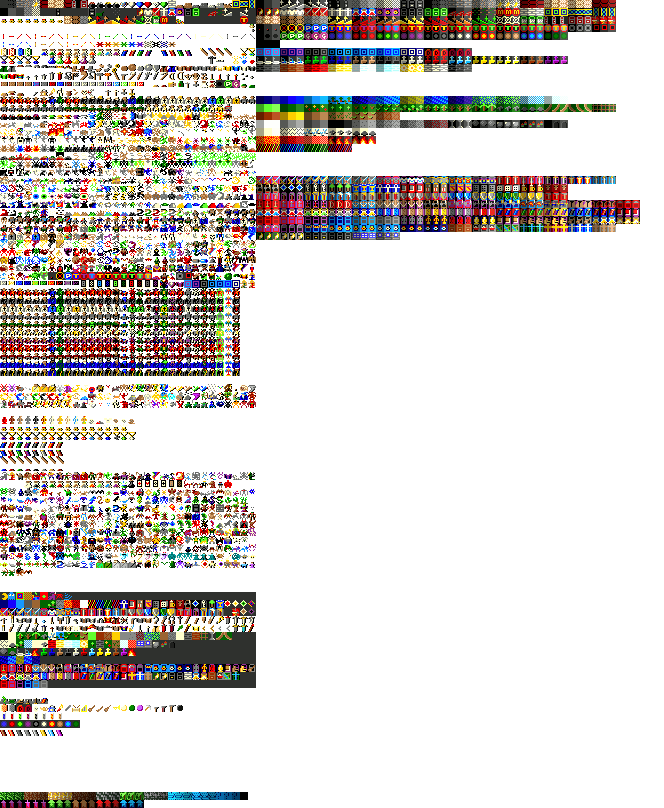
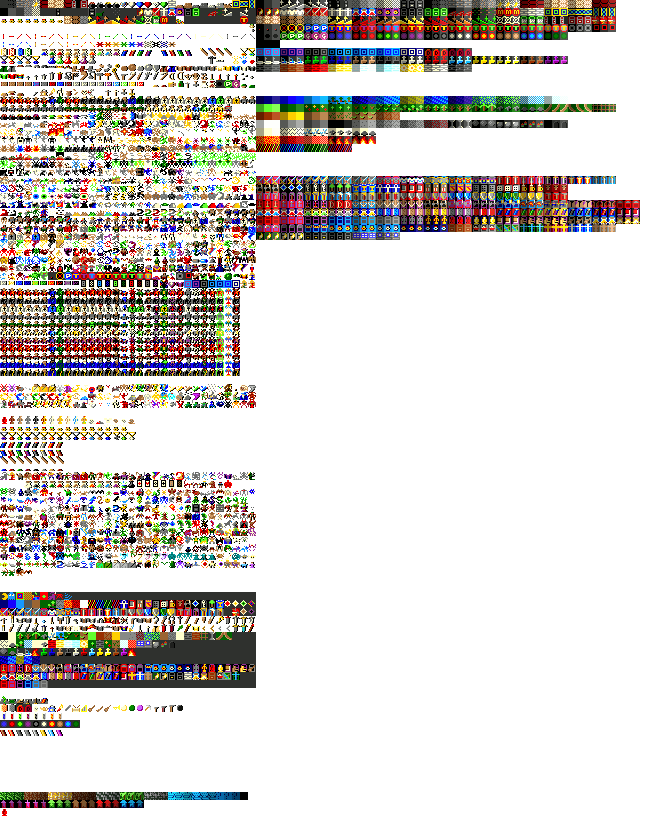
The 8x8 tiles have Zangband's own figurine
Zangband's copy of the original 8x8 tileset drew a magical figurine, and
its graf-xxx.prf names the cell -- "# Magical Figurine" above K:567 --
even though it names almost no monster cells, which is why
import-zangband-tiles.py had left the 8x8 set alone.  The importer now
serves several sets, each with its own sheet, prf, output file and
transparency rule, and the 8x8 set takes objects only: one cell, a red
statuette on a base, in one new row at the bottom of 8x8.png
(zang-ztk.prf, loaded from graf-xxx.prf and installed by its Makefile).

The 8x8 archive has no mask; its tiles sit on a flat (48, 48, 48) grey,
and that grey is what becomes transparent.  Calibrated as the 16x16 mask
was: of the 41 object cells both prfs name, 34 are the same drawing, and
on all 2176 of their pixels the grey is exactly where our alpha is zero.
The other seven are scrolls, drawn by flavour here.

Rows 0 to 100 of the 8x8 sheet are byte-identical, and Adam Bolt's sheet
and prfs come out of the reworked importer byte-identical too.
audit-tiles.py's OBJECT_SKIP now excuses only Nomad's and Gervais' sets,
the two with no figurine to take; leaving the 8x8 set in it would have
failed the audit, which is what the stale-entry check is for.

3.129.1.  All tile checks clean, 1606/1606 unit (parse/graphics loads the
new prf), 6/6 integration, manual builds clean.

Changed region(s): [[0.0, 0.0, 0.9639, 0.9282], [0.0, 0.9592, 0.3916, 1.0]]

diff --git a/scripts/tiles/import-zangband-tiles.py b/scripts/tiles/import-zangband-tiles.py
@@ -1,8 +1,9 @@
 #!/usr/bin/env python3
 """
 Bring Adam Bolt's Zangband unique tiles into Adam Bolt's Angband sheet -- and
-the objects he drew for Zangband that this game has and Angband had not, which
-so far is one: the magical figurine (3.129.0).
+the objects Zangband drew that this game has and Angband had not, which so far
+is one, the magical figurine, into his sheet (3.129.0) and the 8x8 one
+(3.129.1).
 
 Sixty-five of the named characters this project imports were drawn, by the
 artist who drew the rest of the set, for the game they came from.  The art is
@@ -30,15 +31,17 @@ picture may not assert an identity it does not have.  Borrowing the Mouth of
 Sauron's portrait for Oberon asserts a falsehood; Adam Bolt's drawing of Robin
 Hood, used for Robin Hood, asserts exactly what is true.  See DEC-18.
 
-=== Why only Adam Bolt's set ===
+=== Which sets, and why ===
 
 Checked, all four:
 
   adam-bolt   764 named assignments in the archive, 65 of our missing uniques
-  old         `graf-xxx.prf` carries three named assignments in total; the 8x8
-              art exists but nothing says which cell is which monster, and the
-              Tk-side configs that might are Tim Baker's, under a
-              not-for-profit licence this project cannot ship
+  old         `graf-xxx.prf` carries three named *monster* assignments in
+              total; the 8x8 art exists but nothing says which cell is which
+              monster, and the Tk-side configs that might are Tim Baker's,
+              under a not-for-profit licence this project cannot ship.  It does
+              name its object cells -- `# Magical Figurine` above `K:567` --
+              so the 8x8 set takes objects and no monsters
   nomad       a modern set.  There is no 2001 counterpart to take from
   gervais     mapped only, and byte-identical to Angband's.  Keeping it that
               way is worth more than sixty-five tiles
@@ -58,6 +61,13 @@ The archive is a 256-colour BMP plus a 1-bit `mask.bmp`, where **black means
 opaque**.  That is calibrated, not assumed: across three control tiles that
 exist in both sheets, mask-black agreed with our sheet's alpha==255 on 256 of
 256 pixels, and mask-white agreed on none.
+
+The 8x8 sheet has no mask.  Its tiles sit on a flat grey, (48, 48, 48), and
+**that grey is what is transparent** -- calibrated the same way: of the 41
+object cells both prfs name, 34 are the same drawing, and on every one of their
+2176 pixels the grey is exactly where our sheet's alpha is zero.  The other
+seven are scrolls, which this game draws by flavour, so the archive's scroll
+names point at other pictures.
 """
 
 import importlib.util
@@ -72,8 +82,6 @@ TILES = os.path.join(ROOT, 'lib', 'tiles')
 DATA = os.path.join(ROOT, 'lib', 'gamedata')
 ARCHIVE = os.path.join(ROOT, 'archive', 'zangband', 'lib')
 
-OUTPUT = 'uniq-ztk.prf'
-
 # The PNG codec and the monster reader live in their siblings.  Same pattern
 # make-services.py uses: one implementation, imported, rather than a third copy
 # that can drift.
@@ -87,26 +95,48 @@ def _load(name, mod):
 mt = _load('make-terrain.py', 'make_terrain')
 bt = _load('borrow-tiles.py', 'borrow_tiles')
 
-# directory -> (sheet, tile size, archive image, archive mask, archive prf)
+# directory -> where its tiles come from, where they go, and what it takes.
+#
+# `mask` is the archive's 1-bit mask, black for opaque, or None for a sheet
+# whose tiles sit on a flat `background` instead.  `monsters` is whether the
+# set takes uniques as well as objects: the 8x8 archive cannot say which cell
+# is which monster (see above).
 TARGETS = {
-    'adam-bolt': ('16x16.png', 16,
-                  'xtra/graf/16x16.bmp', 'xtra/graf/mask.bmp',
-                  'pref/graf-new.prf'),
+    'adam-bolt': {
+        'sheet': '16x16.png', 'tile': 16, 'prf': 'graf-new.prf',
+        'image': 'xtra/graf/16x16.bmp', 'mask': 'xtra/graf/mask.bmp',
+        'archive': 'pref/graf-new.prf', 'output': 'uniq-ztk.prf',
+        'monsters': True,
+        'title': "Adam Bolt's Zangband tiles, brought into Adam Bolt's sheet",
+        'who': 'drawn by Adam Bolt for Zangband, for the character -- or,\n'
+               '# at the end, the object --',
+        'chained': "Adam Bolt's Zangband uniques",
+    },
+    'old': {
+        'sheet': '8x8.png', 'tile': 8, 'prf': 'graf-xxx.prf',
+        'image': 'xtra/graf/8x8.bmp', 'mask': None,
+        'background': (48, 48, 48),
+        'archive': 'pref/graf-xxx.prf', 'output': 'zang-ztk.prf',
+        'monsters': False,
+        'title': "Zangband's own 8x8 tiles, brought into the 8x8 sheet",
+        'who': 'drawn for Zangband, in its copy of this tileset, for the\n'
+               '# object',
+        'chained': "Zangband's own 8x8 tiles",
+    },
 }
 
-HEADER = """# %s -- Adam Bolt's Zangband tiles, brought into Adam Bolt's sheet.
+HEADER = """# %(output)s -- %(title)s.
 #
 # GENERATED by scripts/tiles/import-zangband-tiles.py, together with the rows
 # of tiles it points at.  Do not edit either by hand: re-running the script
 # overwrites both, and reclaims its own rows rather than appending more.
 #
-# Every tile here was drawn by Adam Bolt for Zangband, for the character -- or,
-# at the end, the object -- it is used for.  Nothing is borrowed from anything
+# Every tile here was %(who)s it is used for.  Nothing is borrowed from anything
 # else and nothing is generated.  The comment on each line gives the cell it
-# came from in archive/zangband/lib/xtra/graf/16x16.bmp.
+# came from in archive/zangband/lib/%(image)s.
 #
 # Replacing one with newer art means deleting its line here and adding a
-# mapping to graf-new.prf; re-running will not put it back, because a line is
+# mapping to %(prf)s; re-running will not put it back, because a line is
 # only written for a thing that has no tile from any other file.
 """
 
@@ -176,13 +206,14 @@ def wanted_objects(directory, pref):
     flavour.  Minus what we wrote last time, for the reason wanted() gives.
     """
     have = set(bt.read_prf_chain(directory, pref)['object'])
-    ours = os.path.join(TILES, directory, OUTPUT)
+    ours = os.path.join(TILES, directory, TARGETS[directory]['output'])
     if os.path.exists(ours):
         mine = re.findall(r'^object:(.+):0x[0-9A-Fa-f]{2}:0x[0-9A-Fa-f]{2}\s*$',
                           open(ours, encoding='utf-8').read(), re.M)
         have -= {n.lower() for n in mine}
 
-    archive = archive_objects(os.path.join(ARCHIVE, TARGETS[directory][4]))
+    archive = archive_objects(os.path.join(ARCHIVE,
+                                           TARGETS[directory]['archive']))
     pairs = [('%s:%s' % (tval, name), archive[name.lower()])
              for tval, name in bt.read_objects()
              if ('%s:%s' % (tval, name)).lower() not in have
@@ -213,7 +244,7 @@ def wanted(directory, pref):
     # and is not skipped, so the same trap is here and has to be sprung
     # separately.  It was: the first version of this script imported 65 tiles
     # and then zero.
-    ours = os.path.join(TILES, directory, OUTPUT)
+    ours = os.path.join(TILES, directory, TARGETS[directory]['output'])
     if os.path.exists(ours):
         mine = re.findall(r'^monster:(.+):0x[0-9A-Fa-f]{2}:0x[0-9A-Fa-f]{2}\s*$',
                           open(ours, encoding='utf-8').read(), re.M)
@@ -221,7 +252,8 @@ def wanted(directory, pref):
 
     missing = [n for n in uniques if n.lower() not in have]
 
-    archive = archive_assignments(os.path.join(ARCHIVE, TARGETS[directory][4]))
+    archive = archive_assignments(os.path.join(ARCHIVE,
+                                               TARGETS[directory]['archive']))
     pairs = [(n, archive[n.lower()]) for n in missing if n.lower() in archive]
     pairs.sort(key=lambda p: (p[1], p[0]))
     return pairs, len(missing), len(archive)
@@ -238,14 +270,25 @@ def rows_of(directory, name):
 
 
 def emit(directory):
-    sheet, tile, image, mask, _prf = TARGETS[directory]
-    pairs, missing, named = wanted(directory, 'graf-new.prf')
+    target = TARGETS[directory]
+    sheet, tile, output = target['sheet'], target['tile'], target['output']
+    if target['monsters']:
+        pairs, missing, named = wanted(directory, target['prf'])
+    else:
+        pairs, missing, named = [], 0, 0
     things = ([('monster', n, at) for n, at in pairs]
               + [('object', n, at)
-                 for n, at in wanted_objects(directory, 'graf-new.prf')])
+                 for n, at in wanted_objects(directory, target['prf'])])
 
-    src = read_bmp(os.path.join(ARCHIVE, image))
-    alpha = read_bmp(os.path.join(ARCHIVE, mask))
+    src = read_bmp(os.path.join(ARCHIVE, target['image']))
+    alpha = (read_bmp(os.path.join(ARCHIVE, target['mask']))
+             if target['mask'] else None)
+
+    def opaque(y, x):
+        if alpha:
+            return alpha[y][x] == (0, 0, 0)
+        return src[y][x] != target['background']
+
     pixels = mt.read_png(os.path.join(TILES, directory, sheet))
     width = len(pixels[0])
     cols = width // tile
@@ -257,7 +300,7 @@ def emit(directory):
     # are the last ones in the sheet and nothing is written below them.  That
     # is a standing requirement, not an accident: see --check.
     start = len(pixels) // tile
-    previous = rows_of(directory, OUTPUT)
+    previous = rows_of(directory, output)
     if previous:
         start = min(previous)
         del pixels[start * tile:]
@@ -266,40 +309,37 @@ def emit(directory):
     for _ in range(need * tile):
         pixels.append([(0, 0, 0, 0)] * width)
 
-    lines = [HEADER % OUTPUT]
+    lines = [HEADER % dict(target, output=output)]
     for n, (what, name, (sr, sc)) in enumerate(things):
         row, col = start + n // cols, n % cols
         for y in range(tile):
             for x in range(tile):
                 rgb = src[sr * tile + y][sc * tile + x]
-                opaque = alpha[sr * tile + y][sc * tile + x] == (0, 0, 0)
                 pixels[row * tile + y][col * tile + x] = \
-                    (rgb[0], rgb[1], rgb[2], 255) if opaque else (0, 0, 0, 0)
+                    ((rgb[0], rgb[1], rgb[2], 255)
+                     if opaque(sr * tile + y, sc * tile + x) else (0, 0, 0, 0))
         lines.append('# from the Zangband sheet at row %d, col %d' % (sr, sc))
         lines.append('%s:%s:0x%02X:0x%02X'
                      % (what, name, row + 0x80, col + 0x80))
 
     mt.write_png(os.path.join(TILES, directory, sheet), pixels)
-    open(os.path.join(TILES, directory, OUTPUT), 'w',
+    open(os.path.join(TILES, directory, output), 'w',
          encoding='utf-8').write('\n'.join(lines) + '\n')
     return len(pairs), missing, named, start, need
 
 
 def chain(directory):
     """Make sure the tileset's main prf loads the new file, once."""
-    for name in sorted(os.listdir(os.path.join(TILES, directory))):
-        if not name.startswith('graf-') or name.endswith('-ztk.prf'):
-            continue
-        path = os.path.join(TILES, directory, name)
-        text = open(path, encoding='utf-8').read()
-        if OUTPUT in text:
-            return False
-        open(path, 'w', encoding='utf-8').write(
-            text.rstrip('\n')
-            + "\n\n# Adam Bolt's Zangband uniques, imported by"
-              " scripts/tiles/import-zangband-tiles.py\n%%:%s\n" % OUTPUT)
-        return True
-    return False
+    target = TARGETS[directory]
+    path = os.path.join(TILES, directory, target['prf'])
+    text = open(path, encoding='utf-8').read()
+    if target['output'] in text:
+        return False
+    open(path, 'w', encoding='utf-8').write(
+        text.rstrip('\n')
+        + "\n\n# %s, imported by scripts/tiles/import-zangband-tiles.py\n"
+          "%%:%s\n" % (target['chained'], target['output']))
+    return True
 
 
 def check():
@@ -311,11 +351,12 @@ def check():
 
     problems = 0
     for directory in sorted(TARGETS):
-        sheet, tile, _img, _msk, _prf = TARGETS[directory]
-        path = os.path.join(TILES, directory, OUTPUT)
+        target = TARGETS[directory]
+        sheet, tile, output = target['sheet'], target['tile'], target['output']
+        path = os.path.join(TILES, directory, output)
         if not os.path.exists(path):
             print('  %-10s no %s -- nothing imported yet'
-                  % (directory, OUTPUT))
+                  % (directory, output))
             continue
 
         pixels = mt.read_png(os.path.join(TILES, directory, sheet))
@@ -348,7 +389,7 @@ def check():
         # its row by truncating back to it, so anything below a generated row
         # is deleted when that generator runs -- which is why the house rule is
         # terrain, then services, then this.
-        mine = rows_of(directory, OUTPUT)
+        mine = rows_of(directory, output)
         others = (rows_of(directory, 'feat-ztk.prf')
                   + rows_of(directory, 'serv-ztk.prf'))
         below = [r for r in others if mine and r > max(mine)]
@@ -367,7 +408,17 @@ def check():
                          ', '.join(sorted(items)[:4]),
                          ' ...' if len(items) > 4 else ''))
 
-        if not (bad_name or not_unique or outside or blank or below):
+        # And the set's own prf has to load it, or the tiles ship unused.
+        unchained = ([] if output in open(os.path.join(
+            TILES, directory, target['prf']), encoding='utf-8').read()
+            else [target['prf']])
+        if unchained:
+            problems += 1
+            print('  %-10s %s does not load %s' % (directory, unchained[0],
+                                                   output))
+
+        if not (bad_name or not_unique or outside or blank or below
+                or unchained):
             print('  %-10s %d uniques and %d objects on rows %s; sheet is %d '
                   'rows x %d cols'
                   % (directory, len(lines), len(objects),
@@ -403,8 +454,8 @@ def main():
               ' the archive, and %d objects%s'
               % (directory, got, missing, named,
                  len(re.findall(r'^object:', open(os.path.join(
-                     TILES, directory, OUTPUT), encoding='utf-8').read(),
-                     re.M)),
+                     TILES, directory, TARGETS[directory]['output']),
+                     encoding='utf-8').read(), re.M)),
                  '; prf chained' if linked else ''))
     print('\n  Run scripts/tiles/audit-tiles.py to see the gap count fall.')
     print('  A new prf also has to be added by hand to the set\'s Makefile'

diff --git a/scripts/tiles/audit-tiles.py b/scripts/tiles/audit-tiles.py
@@ -46,12 +46,13 @@ TRAP_SKIP = ('no trap', 'door lock')
 # The magical figurine (3.129.0) is a monster in miniature, and no Angband set
 # ever drew one.  Borrowing another object's picture would say it is that
 # object, which is the claim DEC-18 refuses for uniques; borrowing a monster's
-# would put a monster on the floor that is not there.  Adam Bolt drew one for
-# Zangband and import-zangband-tiles.py brings it into his set, and Neon draws
-# its own.  These three have nothing that is a figurine, and Gervais' sheet is
-# mapped only, so they show the green ` until someone draws one.
+# would put a monster on the floor that is not there.  Zangband drew one for
+# Adam Bolt's set and one for the 8x8, and import-zangband-tiles.py brings both
+# across; Neon draws its own.  These two have nothing that is a figurine, and
+# Gervais' sheet is mapped only, so they show the green ` until someone draws
+# one.
 OBJECT_SKIP = {
-    'figurine:magical figurine': ('old', 'nomad', 'gervais'),
+    'figurine:magical figurine': ('nomad', 'gervais'),
 }
 
 # Flavoured kinds are covered by flavor: lines rather than object: lines,

diff --git a/src/buildid.h b/src/buildid.h
@@ -60,7 +60,7 @@
  * out of this file, and that is what reaches Info.plist and so the About panel,
  * so there is nothing to keep in step by hand.
  */
-#define VERSION_STRING	"3.129.0"
+#define VERSION_STRING	"3.129.1"
 
 /*
  * The Angband release this is built on.  Shown alongside our own version so it

diff --git a/.claude/plans/decisions.md b/.claude/plans/decisions.md
@@ -7786,3 +7786,13 @@ no figurine and nothing honest to borrow — another object's picture says it is
 that object, a monster's puts a monster on the floor — so they show its letter,
 and audit-tiles.py lists that in `OBJECT_SKIP`, which fails the moment a set it
 excuses gains the tile.
+
+*Amended the same day (3.129.1):* the 8x8 set has one after all. Its archive
+prf cannot say which cell is which monster, which is why the importer had left
+it alone, but it does name its object cells, and Zangband's 8x8 figurine is at
+row 52. import-zangband-tiles.py now serves both sets, each with its own sheet,
+prf and output file (`zang-ztk.prf` for the 8x8, objects only), and the 8x8
+archive's flat grey background stands in for the mask it does not have —
+calibrated against the 34 object cells that are the same drawing in both
+sheets, where it matched our transparency on every pixel. `OBJECT_SKIP` now
+excuses only Nomad and Gervais.

diff --git a/docs/releases.rst b/docs/releases.rst
@@ -131,6 +131,9 @@ The magical figurine — 16 October 2026
   dropped everything listed after it out of the pack, lost the game's record of
   the item, and could stop the game outright the next time the pack was
   checked.
+- **3.129.1** — **The original 8x8 tiles have their figurine too**: the one
+  drawn for Zangband's copy of that set, a red statuette on a base, rather than
+  its letter. Only Nomad's and Gervais' sets still show the letter.
 
 ZangbandTK on Windows and Linux — 15 October 2026
 -------------------------------------------------
